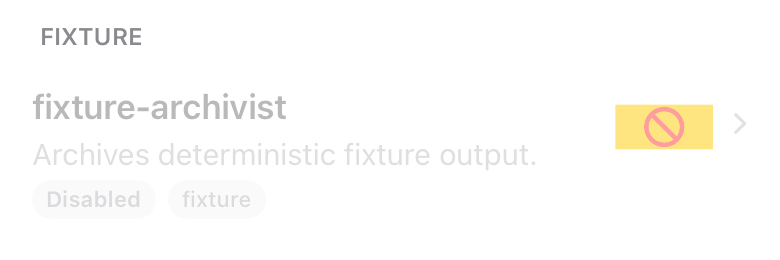
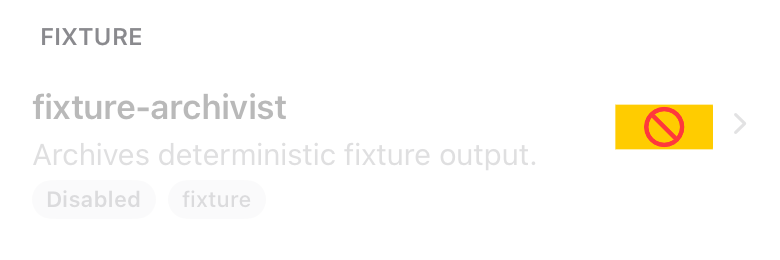
TAL-647: keep a tap on a skill's Enable switch from opening the skill
The Skills row's switch sat inside the row's NavigationLink label, and on a
slow device the link could take the tap: the skill's detail opened and the
switch never flipped. It blocked the v1.17.0 cutover (UI suite shard 2) and
failed the same way in an earlier UI suite run.

The live switch now sits over the link as a sibling, lined up with a hidden
copy SkillRow keeps for layout, so the link never sees its taps. The row
keeps its Enable/Disable accessibility and context-menu actions. The
disabled-row references now show the switch at full strength: outside the
link, ImageRenderer no longer draws it with the link's disabled tint.

Validation: scripts/test-ios AppScreenVisualReferenceTests/
testDisabledSkillRowReferences and AgentPanelContentUITests pass (3 UI tests).

Changed region(s): [[0.7692, 0.4, 0.9231, 0.5846]]

diff --git a/app/Talaria/Features/Skills/SkillRow.swift b/app/Talaria/Features/Skills/SkillRow.swift
@@ -49,22 +49,14 @@ struct SkillRow: View {
 
             Spacer(minLength: 8)
 
+            // Holds the switch's place only. The live switch sits over the row's NavigationLink
+            // in `SkillCategorySection`; inside the link's label the link could take its taps.
             if let onToggle {
-                Toggle(skill.disabled == true ? "Enable" : "Disable", isOn: Binding(
-                    get: { skill.disabled != true },
-                    set: { onToggle($0) }
-                ))
-                .labelsHidden()
-                .toggleStyle(.switch)
-                .scaleEffect(0.8, anchor: .trailing)
-                .disabled(isToggling)
-                .padding(.top, 6)
+                SkillToggle(skill: skill, isToggling: isToggling, onToggle: onToggle)
+                    .hidden()
             }
 
-            Image(systemName: "chevron.forward")
-                .font(.caption.weight(.semibold))
-                .foregroundStyle(.tertiary)
-                .padding(.top, 12)
+            Self.chevron
         }
         .padding(.vertical, 10)
         .contentShape(Rectangle())
@@ -77,6 +69,13 @@ struct SkillRow: View {
                 }
             }
         }
+    }
+
+    static var chevron: some View {
+        Image(systemName: "chevron.forward")
+            .font(.caption.weight(.semibold))
+            .foregroundStyle(.tertiary)
+            .padding(.top, 12)
     }
 
     private var displayName: String {
@@ -96,5 +95,26 @@ struct SkillRow: View {
         (skill.tags ?? [])
             .map { $0.trimmingCharacters(in: .whitespacesAndNewlines) }
             .filter { !$0.isEmpty }
+    }
+}
+
+/// A skill row's Enable/Disable switch. `SkillCategorySection` draws it over the row, outside
+/// the row's NavigationLink, so a tap on the switch never opens the skill (TAL-647).
+struct SkillToggle: View {
+    let skill: SkillSummary
+    let isToggling: Bool
+    let onToggle: (Bool) -> Void
+
+    var body: some View {
+        Toggle(skill.disabled == true ? "Enable" : "Disable", isOn: Binding(
+            get: { skill.disabled != true },
+            set: { onToggle($0) }
+        ))
+        .labelsHidden()
+        .toggleStyle(.switch)
+        .scaleEffect(0.8, anchor: .trailing)
+        .disabled(isToggling)
+        .padding(.top, 6)
+        .accessibilityIdentifier("skill-toggle-\(skill.name ?? "")")
     }
 }

diff --git a/app/Talaria/Features/Skills/SkillCategorySection.swift b/app/Talaria/Features/Skills/SkillCategorySection.swift
@@ -19,6 +19,9 @@ struct SkillCategorySection: View {
 
             VStack(spacing: 0) {
                 ForEach(Array(skills.enumerated()), id: \.offset) { index, skill in
+                    let onToggle: ((Bool) -> Void)? = canToggle(skill) ? { enabled in
+                        Task { await onToggleSkill(skill, enabled) }
+                    } : nil
                     NavigationLink {
                         SkillDetailView(
                             skill: skill,
@@ -26,15 +29,21 @@ struct SkillCategorySection: View {
                             onAPIError: onAPIError
                         )
                     } label: {
-                        SkillRow(
-                            skill: skill,
-                            isToggling: isToggling(skill),
-                            onToggle: canToggle(skill) ? { enabled in
-                                Task { await onToggleSkill(skill, enabled) }
-                            } : nil
-                        )
+                        SkillRow(skill: skill, isToggling: isToggling(skill), onToggle: onToggle)
                     }
                     .buttonStyle(.plain)
+                    // The switch sits over the link, where it lines up with the slot SkillRow
+                    // keeps for it, rather than inside the link's label: there the link could
+                    // take a tap on the switch and open the skill instead (TAL-647).
+                    .overlay(alignment: .topTrailing) {
+                        if let onToggle {
+                            HStack(alignment: .top) {
+                                SkillToggle(skill: skill, isToggling: isToggling(skill), onToggle: onToggle)
+                                SkillRow.chevron.hidden()
+                            }
+                            .padding(.vertical, 10)
+                        }
+                    }
                     .contextMenu {
                         if canToggle(skill) {
                             let isDisabled = skill.disabled == true

diff --git a/app/TalariaUITests/AgentPanelUITests.swift b/app/TalariaUITests/AgentPanelUITests.swift
@@ -264,7 +264,8 @@ final class AgentPanelContentUITests: AgentPanelUITestCase {
         // is pinned by the `skill-row-disabled` visual references, which XCUI cannot see.
         // List rows report `isHittable == false` to XCUI even when visible (see `tapCenter`),
         // so the tap flipping fixture state below is what proves the switch takes a touch.
-        let enable = disabledSkill.switches["Enable"].firstMatch
+        // The switch sits over the row's link, outside the row element (TAL-647).
+        let enable = app.switches["skill-toggle-fixture-archivist"].firstMatch
         XCTAssertTrue(enable.awaitExistence(timeout: 5), "The disabled skill row offered no Enable switch")
         XCTAssertTrue(enable.isEnabled, "The disabled skill's Enable switch is not interactive")
         tapCenter(of: enable)
@@ -272,6 +273,7 @@ final class AgentPanelContentUITests: AgentPanelUITestCase {
             disabledSkill.awaitNonExistence(timeout: 15),
             "Enabling a skill did not clear its Disabled badge"
         )
+        XCTAssertTrue(app.navigationBars["Skills"].exists, "Tapping the switch opened the skill instead")
 
         // The row above only proves the optimistic update, which the view model applies
         // before the request. Leaving and re-entering builds a fresh view model whose only
